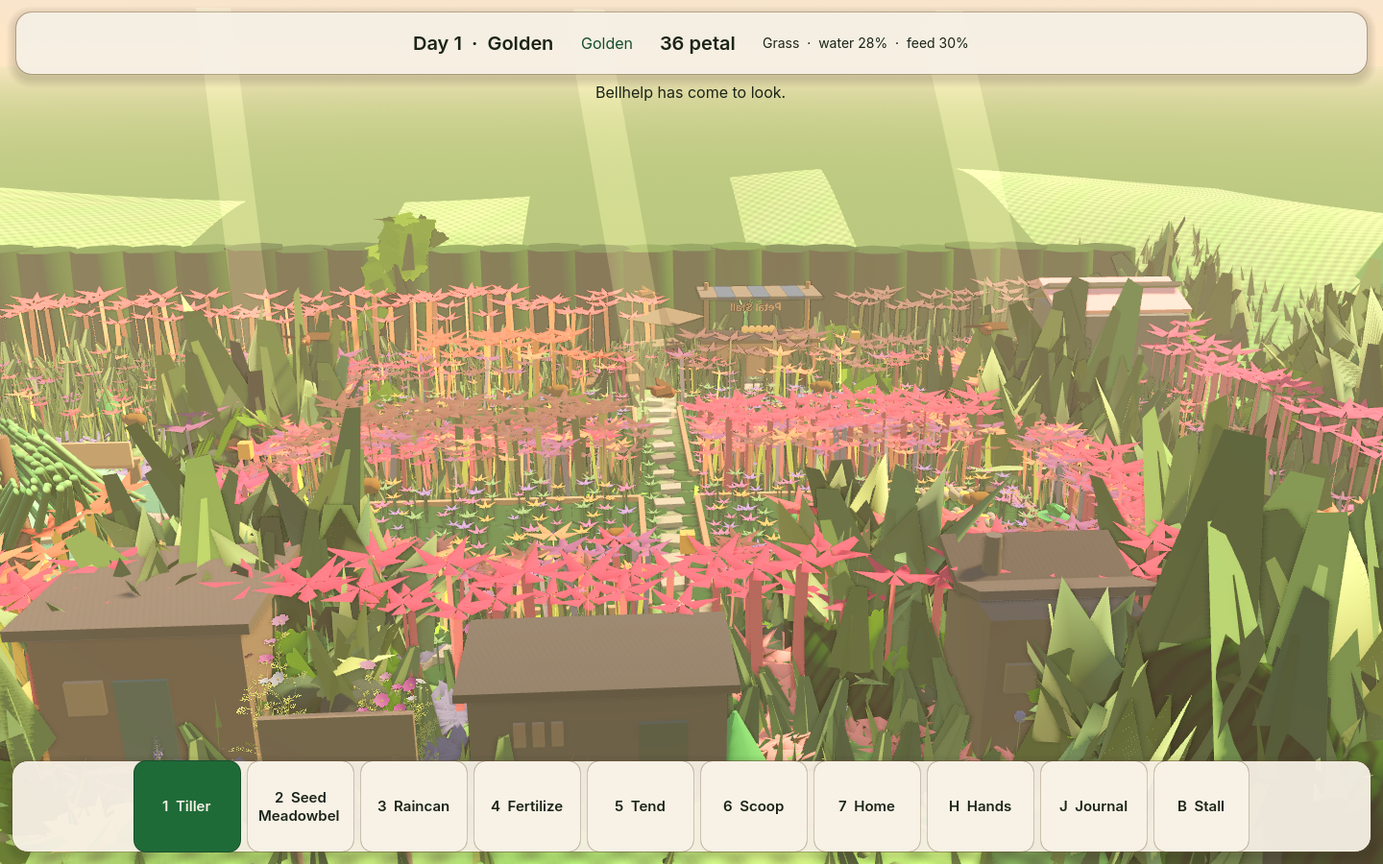
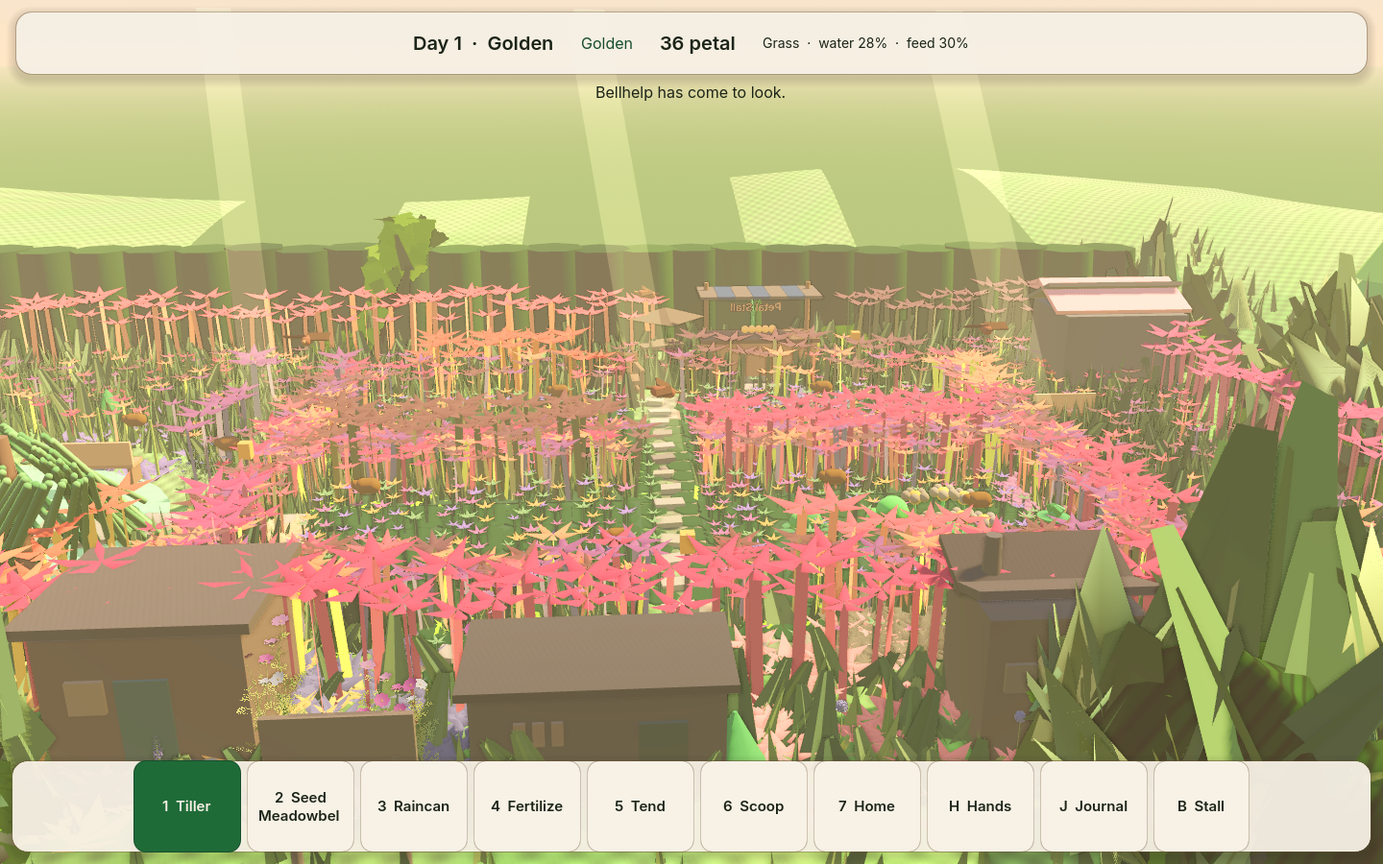
Take down the hedge box around the beds.
The wooden frames and the inner hedge are gone. The parish hedge stays, and the track centers stay stone. On this shot the upper band is 1.26% (940 pixels) and the hill mean is (212.0, 223.6, 146.4).

diff --git a/docs/PETALWILD_MASTER_STATE.md b/docs/PETALWILD_MASTER_STATE.md
@@ -38,7 +38,7 @@ This machine has no Vulkan surface. Godot falls back to OpenGL 3 / llvmpipe. Aud
 - The garden does not yet look like the concept plates. See the gap list below.
 - Bellhelp’s five sphere lobes are gone. Five narrow petals run from the tips down to a small pad, with a dark five-petal well, a gold seed, a wider flared whorl, a lower rim, five gap tips past the lobes, a darker band, and a wide short rank inside the tips. The wide skirt of spheres is gone.
 - Lumen’s stalk is one fluted taper, cream at the base and green at the crown. The raised hand holds a seed tray. Each hand is a palm with three fingers and a thumb.
-- Crest leaf cards are 0.4 scale, and the far hedge keeps one 2.5 m tuft in four. A dark shrub row stands just behind that wall, taller at the east end. Light-green in the upper opening band fell from 53% to 24%, and in the lower band from 36% to 13%. The hill did not move. The stall still shows through the middle. The bright blue in that opening was the awning cloth. That stripe is darker now, about (171, 171, 173), and the sky-blue detector on the overview is 0. The shrub row behind the wall was the pale green in the upper band. That check now covers 1.2%, down from 3.5%. The crest leaf cards and the far trees were the side-opening pale pixels. The north backdrop trees are shorter. Paths are dark dirt with darker flagstones. Blooms are rose. StandardMaterial specular is off. The bench and planter are darkened, bright plant-atlas texels are capped, and the lantern glass is amber. The pink disk by the south-west rail, the untilled grass-plot tops, the meadowbell petals, the mauve bed, the resident hands, the light flagstones, the path dirt, and the loose stones are darkened. Overview pixels at pure white are 0. A planted cell keeps the meadow lid, so the crop sits in the bed. The north and south plots meet across the lawn. Flowers spill past the outer edges of the four beds and still line the north-south path. The path center stays open. The north-south track is narrower and its shoulders are meadow. The south and north tracks are narrower too. On this shot the upper-band check is 1.45% (1083 pixels) and the hill mean is (212.2, 223.9, 146.6). Eight bees drift over the beds. Four birds cross the garden by day and perch at dusk and in the rain.
+- Crest leaf cards are 0.4 scale, and the far hedge keeps one 2.5 m tuft in four. A dark shrub row stands just behind that wall, taller at the east end. Light-green in the upper opening band fell from 53% to 24%, and in the lower band from 36% to 13%. The hill did not move. The stall still shows through the middle. The bright blue in that opening was the awning cloth. That stripe is darker now, about (171, 171, 173), and the sky-blue detector on the overview is 0. The shrub row behind the wall was the pale green in the upper band. That check now covers 1.2%, down from 3.5%. The crest leaf cards and the far trees were the side-opening pale pixels. The north backdrop trees are shorter. Paths are dark dirt with darker flagstones. Blooms are rose. StandardMaterial specular is off. The bench and planter are darkened, bright plant-atlas texels are capped, and the lantern glass is amber. The pink disk by the south-west rail, the untilled grass-plot tops, the meadowbell petals, the mauve bed, the resident hands, the light flagstones, the path dirt, and the loose stones are darkened. Overview pixels at pure white are 0. A planted cell keeps the meadow lid, so the crop sits in the bed. The north and south plots meet across the lawn. Flowers spill past the outer edges of the four beds and still line the north-south path. The path center stays open. The north-south track is narrower and its shoulders are meadow. The south and north tracks are narrower too. The wooden frames and the inner hedge around the beds are gone. On this shot the upper-band check is 1.26% (940 pixels) and the hill mean is (212.0, 223.6, 146.4). Eight bees drift over the beds. Four birds cross the garden by day and perch at dusk and in the rain.
 - City, venues, and the agent civilisation are a single parish record (`data/district.json`, Hedge Hollow, phase A).
 - On-screen jellies stay at district fidelity or nearer. The directory shows each resident's home and job. The parish page lists venues. Petal Stall, the potting shed, the hedge tea house, the research hut, the media foundry, and the town hall board are open. Grove Park is not built, and demand for it is not simulated. Petal Stall demand is the people present plus creature residents.
 - Trust cannot research, draft, or act outside the process.
@@ -64,14 +64,14 @@ Spent: 0. Remaining on the connected account: **367.46** (pro). Catalog check re
 
 Compared `docs/screenshots/wave1_overview.png`, `wave1_jelly.png`, and `wave1_lumen.png` with `docs/reference/petalwild_target_garden_01.png` and `petalwild_target_garden_02.png`.
 
-The north backdrop trees are shorter than the hedge. Crest leaf cards are 0.4 scale, and the far hedge keeps one 2.5 m tuft in four. A dark shrub row stands just behind that wall, taller at the east end. Light-green pixels fell from 53% to 24% in the upper opening band (screen y 265–320) and from 36% to 13% in the lower band (y 290–360). East-lip luminance (y 252–272) fell from 200 to 162. The hill (y 200–245) did not change. Bellhelp’s close-up is on open lawn: five narrow lobes, a dark five-petal well, a gold seed, a wider flared whorl, a lower rim, five gap tips past the lobes, a darker band, and a wide short rank inside the tips. The bench and planter use a dark multiply, bright plant-atlas texels are capped, and the lantern glass is amber. The pink disk by the south-west rail, the untilled grass-plot tops, the meadowbell petals, the mauve bed, the resident hands, the light flagstones, the path dirt, and the loose stones are darkened. Pure white on this overview is 0. The stall awning’s bright blue was cloth, now about (171, 171, 173), and the sky-blue detector is 0. The shrub row behind the wall no longer reads as pale green; that upper-band check is 1.2%. On the previous shot that check was 1.17% and the hill mean was (212.9, 224.4, 147.6). With the hedge tea house in the lower left, that shot was 1.30%. With the research hut in the lower middle, that shot was 1.17% (874 pixels). With the media foundry in the lower middle, that shot was 1.15% (862 pixels). With the town hall board in the south gate, that shot was 1.29% (968 pixels) and the hill mean was (212.0, 223.6, 146.4). On that shot the check was 1.54% (1155 pixels) and the hill mean was (212.0, 223.7, 146.5). Empty untilled beds now carry nine dark leaf discs and eight short flowers, and a tilled or planted bed clears them. On the leaf-cover shot the check was 1.60% (1197 pixels) and the hill mean was (212.1, 223.8, 146.5). Neighboring empty cells now share an overlapping dark lid, so the brown seam inside a plot closes. On the joined-lid shot the check was 1.61% (1208 pixels) and the hill mean was (212.1, 223.8, 146.5). A planted cell now keeps that dark lid, so the crop sits in the meadow instead of an inset square. On the planted-lid shot the check was 1.54% (1149 pixels) and the hill mean was (212.1, 223.7, 146.5). The north and south plots now meet across the lawn, and the north-south path stays open. On the bridge shot the check was 1.57% (1176 pixels) and the hill mean was (212.2, 223.8, 146.6). Flowers now sit on both lips of the north-south path, and the path center stays open. On the path-lip shot the check was 1.61% (1204 pixels) and the hill mean was (212.1, 223.8, 146.5). Flowers now spill past the outer edges of the four beds, and the path-center pixels are unchanged. On the bed-edge shot the check was 1.45% (1083 pixels) and the hill mean was (212.2, 223.9, 146.6). The north-south track is narrower, its shoulders are meadow, and the center stays stone. On the narrow-track shot the check was 1.46% (1091 pixels) and the hill mean was (212.2, 223.9, 146.6). The south and north tracks are narrower too, with flowers on their lips. On this shot the check is 1.45% (1083 pixels) and the hill mean is (212.2, 223.9, 146.6). The swing is the west edge of the hill under the swaying leaves. A planted meadowbell is three bells on a leaf pad, and every crop sits in a ring of eight leaves. Eight bees drift over the beds. Four birds cross the garden by day and perch at dusk and in the rain. Paths are flagstones on dark dirt. Lumen’s stalk is one fluted taper, and the raised hand holds the seed tray. `PETAL_SMOKE_OK`, `PETAL_RULES_OK`, and `PETAL_CAPTURE_OK` passed on this tree. Shots are the six `wave1_*.png` files.
+The north backdrop trees are shorter than the hedge. Crest leaf cards are 0.4 scale, and the far hedge keeps one 2.5 m tuft in four. A dark shrub row stands just behind that wall, taller at the east end. Light-green pixels fell from 53% to 24% in the upper opening band (screen y 265–320) and from 36% to 13% in the lower band (y 290–360). East-lip luminance (y 252–272) fell from 200 to 162. The hill (y 200–245) did not change. Bellhelp’s close-up is on open lawn: five narrow lobes, a dark five-petal well, a gold seed, a wider flared whorl, a lower rim, five gap tips past the lobes, a darker band, and a wide short rank inside the tips. The bench and planter use a dark multiply, bright plant-atlas texels are capped, and the lantern glass is amber. The pink disk by the south-west rail, the untilled grass-plot tops, the meadowbell petals, the mauve bed, the resident hands, the light flagstones, the path dirt, and the loose stones are darkened. Pure white on this overview is 0. The stall awning’s bright blue was cloth, now about (171, 171, 173), and the sky-blue detector is 0. The shrub row behind the wall no longer reads as pale green; that upper-band check is 1.2%. On the previous shot that check was 1.17% and the hill mean was (212.9, 224.4, 147.6). With the hedge tea house in the lower left, that shot was 1.30%. With the research hut in the lower middle, that shot was 1.17% (874 pixels). With the media foundry in the lower middle, that shot was 1.15% (862 pixels). With the town hall board in the south gate, that shot was 1.29% (968 pixels) and the hill mean was (212.0, 223.6, 146.4). On that shot the check was 1.54% (1155 pixels) and the hill mean was (212.0, 223.7, 146.5). Empty untilled beds now carry nine dark leaf discs and eight short flowers, and a tilled or planted bed clears them. On the leaf-cover shot the check was 1.60% (1197 pixels) and the hill mean was (212.1, 223.8, 146.5). Neighboring empty cells now share an overlapping dark lid, so the brown seam inside a plot closes. On the joined-lid shot the check was 1.61% (1208 pixels) and the hill mean was (212.1, 223.8, 146.5). A planted cell now keeps that dark lid, so the crop sits in the meadow instead of an inset square. On the planted-lid shot the check was 1.54% (1149 pixels) and the hill mean was (212.1, 223.7, 146.5). The north and south plots now meet across the lawn, and the north-south path stays open. On the bridge shot the check was 1.57% (1176 pixels) and the hill mean was (212.2, 223.8, 146.6). Flowers now sit on both lips of the north-south path, and the path center stays open. On the path-lip shot the check was 1.61% (1204 pixels) and the hill mean was (212.1, 223.8, 146.5). Flowers now spill past the outer edges of the four beds, and the path-center pixels are unchanged. On the bed-edge shot the check was 1.45% (1083 pixels) and the hill mean was (212.2, 223.9, 146.6). The north-south track is narrower, its shoulders are meadow, and the center stays stone. On the narrow-track shot the check was 1.46% (1091 pixels) and the hill mean was (212.2, 223.9, 146.6). The south and north tracks are narrower too, with flowers on their lips. On the track-lip shot the check was 1.45% (1083 pixels) and the hill mean was (212.2, 223.9, 146.6). The wooden frames and the inner hedge around the four beds are gone. The parish hedge stays. On this shot the check is 1.26% (940 pixels) and the hill mean is (212.0, 223.6, 146.4). The swing is the west edge of the hill under the swaying leaves. A planted meadowbell is three bells on a leaf pad, and every crop sits in a ring of eight leaves. Eight bees drift over the beds. Four birds cross the garden by day and perch at dusk and in the rain. Paths are flagstones on dark dirt. Lumen’s stalk is one fluted taper, and the raised hand holds the seed tray. `PETAL_SMOKE_OK`, `PETAL_RULES_OK`, and `PETAL_CAPTURE_OK` passed on this tree. Shots are the six `wave1_*.png` files.
 
 Three largest gaps still open, against `docs/reference/petalwild_target_garden_01.png` and `petalwild_target_garden_02.png`:
 
-1. **Hedge skyline.** The crest cards and the far trees are darker. On this shot 1.45% of the upper band is still light-green (1083 pixels), mostly the west edge of the hill. The hill mean is (212.2, 223.9, 146.6). The stall still shows through the middle. The south rooms, the gate board, and the bed blooms sit lower and do not cover that edge. PETAL-05.
+1. **Hedge skyline.** The crest cards and the far trees are darker. On this shot 1.26% of the upper band is still light-green (940 pixels), mostly the west edge of the hill. The hill mean is (212.0, 223.6, 146.4). The stall still shows through the middle. The south rooms, the gate board, and the bed blooms sit lower and do not cover that edge. PETAL-05.
 2. **Bellhelp.** Ten tips, a short rank inside them, a darker band, and a wider skirt. The dark throat is still the center. PETAL-03.
-3. **Plot grid.** Flowers spill past the outer edges of the four beds and still line the north-south path. The north-south, south, and north tracks are narrower, flowers sit on their lips, and each center stays a stone track. Those tracks still cut the planting. The plates are one continuous planting. Overview pixels at pure white are 0, and the brightest leftover is still the warm horizon at screen x 1034, y 178, (255, 255, 201). That is sky. PETAL-06.
+3. **Plot grid.** The wooden frames and the inner hedge around the four beds are gone. The parish hedge stays. Flowers spill past the outer edges of the beds and still line the north-south path. The north-south, south, and north tracks are narrower, flowers sit on their lips, and each center stays a stone track. Those tracks still cut the planting. The plates are one continuous planting. Overview pixels at pure white are 0, and the brightest leftover is still the warm horizon at screen x 1034, y 178, (255, 255, 201). That is sky. PETAL-06.
 
 ## Next integration
 
-Keep this build playable. The next pass stays inside `scenes/main.tscn` (Hedge Hollow). The creature chain through Gushorn can happen in this garden, and two resident Bellhelps raise the species to breeding. The later resident walks to the first, the journal says a pair is in the parish, a reload keeps that pair, and off-screen they share the first resident's home kit. A resident who is petted until they trust your hands is bonded. By day they walk to the gardener, the journal keeps that trust beside the pair, and a reload keeps the bond. Grove Park is still not built. The hedge tea house stands on the south lawn. The research hut stands west of it, and the media foundry stands between them. The town hall is a board by the south gate. Meadowbells are a clump of three, and every crop sits in a ring of leaves. Flowers spill past the outer edges of the four beds and still line the north-south path. The north-south, south, and north tracks are narrower, flowers sit on their lips, and each center stays a stone track. Those tracks still cut the planting. On this shot 1.45% of the upper band is still light green (1083 pixels), mostly the west edge of the hill, and the stall still shows through the middle. The hill mean is (212.2, 223.9, 146.6). The south rooms and the town hall board sit in the foreground. Bees sit on the flowers while it rains. Do not paint that hill edge, do not cut the hill, and do not raise the east shrubs. Do not fill Bellhelp’s dark throat. Do not open a side demo. The Kenney/Cara grove in `scripts/presentation/` is not the running scene.
+Keep this build playable. The next pass stays inside `scenes/main.tscn` (Hedge Hollow). The creature chain through Gushorn can happen in this garden, and two resident Bellhelps raise the species to breeding. The later resident walks to the first, the journal says a pair is in the parish, a reload keeps that pair, and off-screen they share the first resident's home kit. A resident who is petted until they trust your hands is bonded. By day they walk to the gardener, the journal keeps that trust beside the pair, and a reload keeps the bond. Grove Park is still not built. The hedge tea house stands on the south lawn. The research hut stands west of it, and the media foundry stands between them. The town hall is a board by the south gate. Meadowbells are a clump of three, and every crop sits in a ring of leaves. The wooden frames and the inner hedge around the four beds are gone. The parish hedge stays. Flowers spill past the outer edges of the beds and still line the north-south path. The north-south, south, and north tracks are narrower, flowers sit on their lips, and each center stays a stone track. Those tracks still cut the planting. On this shot 1.26% of the upper band is still light green (940 pixels), mostly the west edge of the hill, and the stall still shows through the middle. The hill mean is (212.0, 223.6, 146.4). The south rooms and the town hall board sit in the foreground. Bees sit on the flowers while it rains. Do not paint that hill edge, do not cut the hill, and do not raise the east shrubs. Do not fill Bellhelp’s dark throat. Do not open a side demo. The Kenney/Cara grove in `scripts/presentation/` is not the running scene.

diff --git a/docs/VISUAL_GAP.md b/docs/VISUAL_GAP.md
@@ -2,12 +2,12 @@
 
 Compared on 2026-09-22. The scene `tools/run.sh` launches is Hedge Hollow. Shots: `docs/screenshots/wave1_overview.png`, `wave1_jelly.png`, `wave1_lumen.png`. Targets: `docs/reference/petalwild_target_garden_01.png` and `petalwild_target_garden_02.png`.
 
-The north backdrop trees are shorter than the hedge. Crest leaf cards are 0.4 of their old size, and the far wall keeps one 2.5 m tuft in four. A row of dark shrubs stands just behind that wall. The east end is taller so its lip meets the hedge line. Light-green pixels in the upper opening band (screen y 265–320, x 40–1400) fell from 53% to 24%, and in the lower band (y 290–360, x 80–1200) from 36% to 13%. On the east lip (y 252–272, x 40–300) mean luminance fell from 200 to 162. The hill (y 200–245) did not change. The stall still sits in front of the middle of the wall. The bright blue band in that opening was the awning cloth, not a hole in the hedge. That stripe is darker now and reads about (171, 171, 173). A sky-blue detector on the overview (blue above 200, ahead of red by 20 and of green by 10) is 0. The shrub row behind the wall was lifting to pale green under the sun. The same light-green check (green ahead of red by 15 and of blue by 20, green above 140) now covers 1.2% of the upper band, down from 3.5% on the previous shot. The crest leaf cards and the far trees were the pale pixels in the side openings. The upper hill (screen y 200–230) stayed at about (213, 224, 148). The ground sky below the horizon is green, so a hole in the hill reads as olive rather than pale sky. Bellhelp’s close-up shows five pointed lobes, five gap tips past them, a wide short rank inside that ring, a darker band, and a wider flared whorl. The dark throat stays. The wide skirt of spheres is gone. The bench and planter use a dark multiply on the prop texture, and bright plant-atlas texels are capped. The three lantern glasses are amber instead of pure white. The pink disk by the south-west rail, the untilled grass-plot tops, the meadowbell petals, the mauve bed, the resident hands, the light flagstones, the path dirt, and the loose stones are darkened so they stay under the sun. Eight bees drift over the beds. Four birds cross the garden by day and perch at dusk and in the rain. A planted meadowbell is three bells on a leaf pad, and every crop sits in a ring of eight leaves. Pure white on this overview is 0. On the previous shot the upper-band light-green check was 1.17% and the hill mean was (212.9, 224.4, 147.6). The hedge tea house stands in the lower left of the home shot. On that shot the same check was 1.30% (969 pixels) and the hill mean was (212.0, 223.6, 146.4). The research hut stands in the lower middle of that shot, where the check was 1.17% (874 pixels) and the hill mean was (212.0, 223.6, 146.4). The media foundry stands in the lower middle of that shot, where the check was 1.15% (862 pixels) and the hill mean was (212.0, 223.6, 146.4). The town hall board now stands in the south gate. On the town-hall shot the check was 1.29% (968 pixels) and the hill mean was (212.0, 223.6, 146.4). On the six-bloom shot the check was 1.54% (1155 pixels) and the hill mean was (212.0, 223.7, 146.5). Empty untilled beds now carry nine dark leaf discs and eight short flowers, and a tilled or planted bed clears them. On the leaf-cover shot the check was 1.60% (1197 pixels) and the hill mean was (212.1, 223.8, 146.5). Neighboring empty cells now share an overlapping dark lid, so the brown seam inside a plot closes. On the joined-lid shot the check was 1.61% (1208 pixels) and the hill mean was (212.1, 223.8, 146.5). A planted cell now keeps that dark lid, so the crop sits in the meadow instead of an inset square. On the planted-lid shot the check was 1.54% (1149 pixels) and the hill mean was (212.1, 223.7, 146.5). The north and south plots now meet across the lawn, and the north-south path stays open. On the bridge shot the check was 1.57% (1176 pixels) and the hill mean was (212.2, 223.8, 146.6). Flowers now sit on both lips of the north-south path, and the path center stays open. On the path-lip shot the check was 1.61% (1204 pixels) and the hill mean was (212.1, 223.8, 146.5). Flowers now spill past the outer edges of the four beds, and the path-center pixels are unchanged. On the bed-edge shot the check was 1.45% (1083 pixels) and the hill mean was (212.2, 223.9, 146.6). The north-south track is narrower, its shoulders are meadow, and the center stays stone. On the narrow-track shot the check was 1.46% (1091 pixels) and the hill mean was (212.2, 223.9, 146.6). The south and north tracks are narrower too, with flowers on their lips. On this shot the check is 1.45% (1083 pixels) and the hill mean is (212.2, 223.9, 146.6). The swing is the west edge of the hill under the swaying leaves.
+The north backdrop trees are shorter than the hedge. Crest leaf cards are 0.4 of their old size, and the far wall keeps one 2.5 m tuft in four. A row of dark shrubs stands just behind that wall. The east end is taller so its lip meets the hedge line. Light-green pixels in the upper opening band (screen y 265–320, x 40–1400) fell from 53% to 24%, and in the lower band (y 290–360, x 80–1200) from 36% to 13%. On the east lip (y 252–272, x 40–300) mean luminance fell from 200 to 162. The hill (y 200–245) did not change. The stall still sits in front of the middle of the wall. The bright blue band in that opening was the awning cloth, not a hole in the hedge. That stripe is darker now and reads about (171, 171, 173). A sky-blue detector on the overview (blue above 200, ahead of red by 20 and of green by 10) is 0. The shrub row behind the wall was lifting to pale green under the sun. The same light-green check (green ahead of red by 15 and of blue by 20, green above 140) now covers 1.2% of the upper band, down from 3.5% on the previous shot. The crest leaf cards and the far trees were the pale pixels in the side openings. The upper hill (screen y 200–230) stayed at about (213, 224, 148). The ground sky below the horizon is green, so a hole in the hill reads as olive rather than pale sky. Bellhelp’s close-up shows five pointed lobes, five gap tips past them, a wide short rank inside that ring, a darker band, and a wider flared whorl. The dark throat stays. The wide skirt of spheres is gone. The bench and planter use a dark multiply on the prop texture, and bright plant-atlas texels are capped. The three lantern glasses are amber instead of pure white. The pink disk by the south-west rail, the untilled grass-plot tops, the meadowbell petals, the mauve bed, the resident hands, the light flagstones, the path dirt, and the loose stones are darkened so they stay under the sun. Eight bees drift over the beds. Four birds cross the garden by day and perch at dusk and in the rain. A planted meadowbell is three bells on a leaf pad, and every crop sits in a ring of eight leaves. Pure white on this overview is 0. On the previous shot the upper-band light-green check was 1.17% and the hill mean was (212.9, 224.4, 147.6). The hedge tea house stands in the lower left of the home shot. On that shot the same check was 1.30% (969 pixels) and the hill mean was (212.0, 223.6, 146.4). The research hut stands in the lower middle of that shot, where the check was 1.17% (874 pixels) and the hill mean was (212.0, 223.6, 146.4). The media foundry stands in the lower middle of that shot, where the check was 1.15% (862 pixels) and the hill mean was (212.0, 223.6, 146.4). The town hall board now stands in the south gate. On the town-hall shot the check was 1.29% (968 pixels) and the hill mean was (212.0, 223.6, 146.4). On the six-bloom shot the check was 1.54% (1155 pixels) and the hill mean was (212.0, 223.7, 146.5). Empty untilled beds now carry nine dark leaf discs and eight short flowers, and a tilled or planted bed clears them. On the leaf-cover shot the check was 1.60% (1197 pixels) and the hill mean was (212.1, 223.8, 146.5). Neighboring empty cells now share an overlapping dark lid, so the brown seam inside a plot closes. On the joined-lid shot the check was 1.61% (1208 pixels) and the hill mean was (212.1, 223.8, 146.5). A planted cell now keeps that dark lid, so the crop sits in the meadow instead of an inset square. On the planted-lid shot the check was 1.54% (1149 pixels) and the hill mean was (212.1, 223.7, 146.5). The north and south plots now meet across the lawn, and the north-south path stays open. On the bridge shot the check was 1.57% (1176 pixels) and the hill mean was (212.2, 223.8, 146.6). Flowers now sit on both lips of the north-south path, and the path center stays open. On the path-lip shot the check was 1.61% (1204 pixels) and the hill mean was (212.1, 223.8, 146.5). Flowers now spill past the outer edges of the four beds, and the path-center pixels are unchanged. On the bed-edge shot the check was 1.45% (1083 pixels) and the hill mean was (212.2, 223.9, 146.6). The north-south track is narrower, its shoulders are meadow, and the center stays stone. On the narrow-track shot the check was 1.46% (1091 pixels) and the hill mean was (212.2, 223.9, 146.6). The south and north tracks are narrower too, with flowers on their lips. On the track-lip shot the check was 1.45% (1083 pixels) and the hill mean was (212.2, 223.9, 146.6). The wooden frames and the inner hedge around the four beds are gone. The parish hedge stays. On this shot the check is 1.26% (940 pixels) and the hill mean is (212.0, 223.6, 146.4). The swing is the west edge of the hill under the swaying leaves.
 
 ## Three largest gaps
 
-1. **Hedge skyline.** The crest cards and the far trees are darker. On this shot 1.45% of the upper band is still light-green (1083 pixels), mostly the west edge of the hill. The hill mean is (212.2, 223.9, 146.6). The stall still shows through the middle. The south rooms, the gate board, and the bed blooms sit lower and do not cover that edge. PETAL-05.
+1. **Hedge skyline.** The crest cards and the far trees are darker. On this shot 1.26% of the upper band is still light-green (940 pixels), mostly the west edge of the hill. The hill mean is (212.0, 223.6, 146.4). The stall still shows through the middle. The south rooms, the gate board, and the bed blooms sit lower and do not cover that edge. PETAL-05.
 
 2. **Bellhelp.** Ten tips, a short rank inside them, a darker band, and a wider skirt. The dark throat is still the center. PETAL-03.
 
-3. **Plot grid.** Flowers spill past the outer edges of the four beds and still line the north-south path. The north-south, south, and north tracks are narrower, flowers sit on their lips, and each center stays a stone track. Those tracks still cut the planting. The plates are one continuous planting. Overview pixels at pure white are 0, and the brightest leftover is still the warm horizon at screen x 1034, y 178, (255, 255, 201). That is sky. PETAL-06.
+3. **Plot grid.** The wooden frames and the inner hedge around the four beds are gone. The parish hedge stays. Flowers spill past the outer edges of the beds and still line the north-south path. The north-south, south, and north tracks are narrower, flowers sit on their lips, and each center stays a stone track. Those tracks still cut the planting. The plates are one continuous planting. Overview pixels at pure white are 0, and the brightest leftover is still the warm horizon at screen x 1034, y 178, (255, 255, 201). That is sky. PETAL-06.
